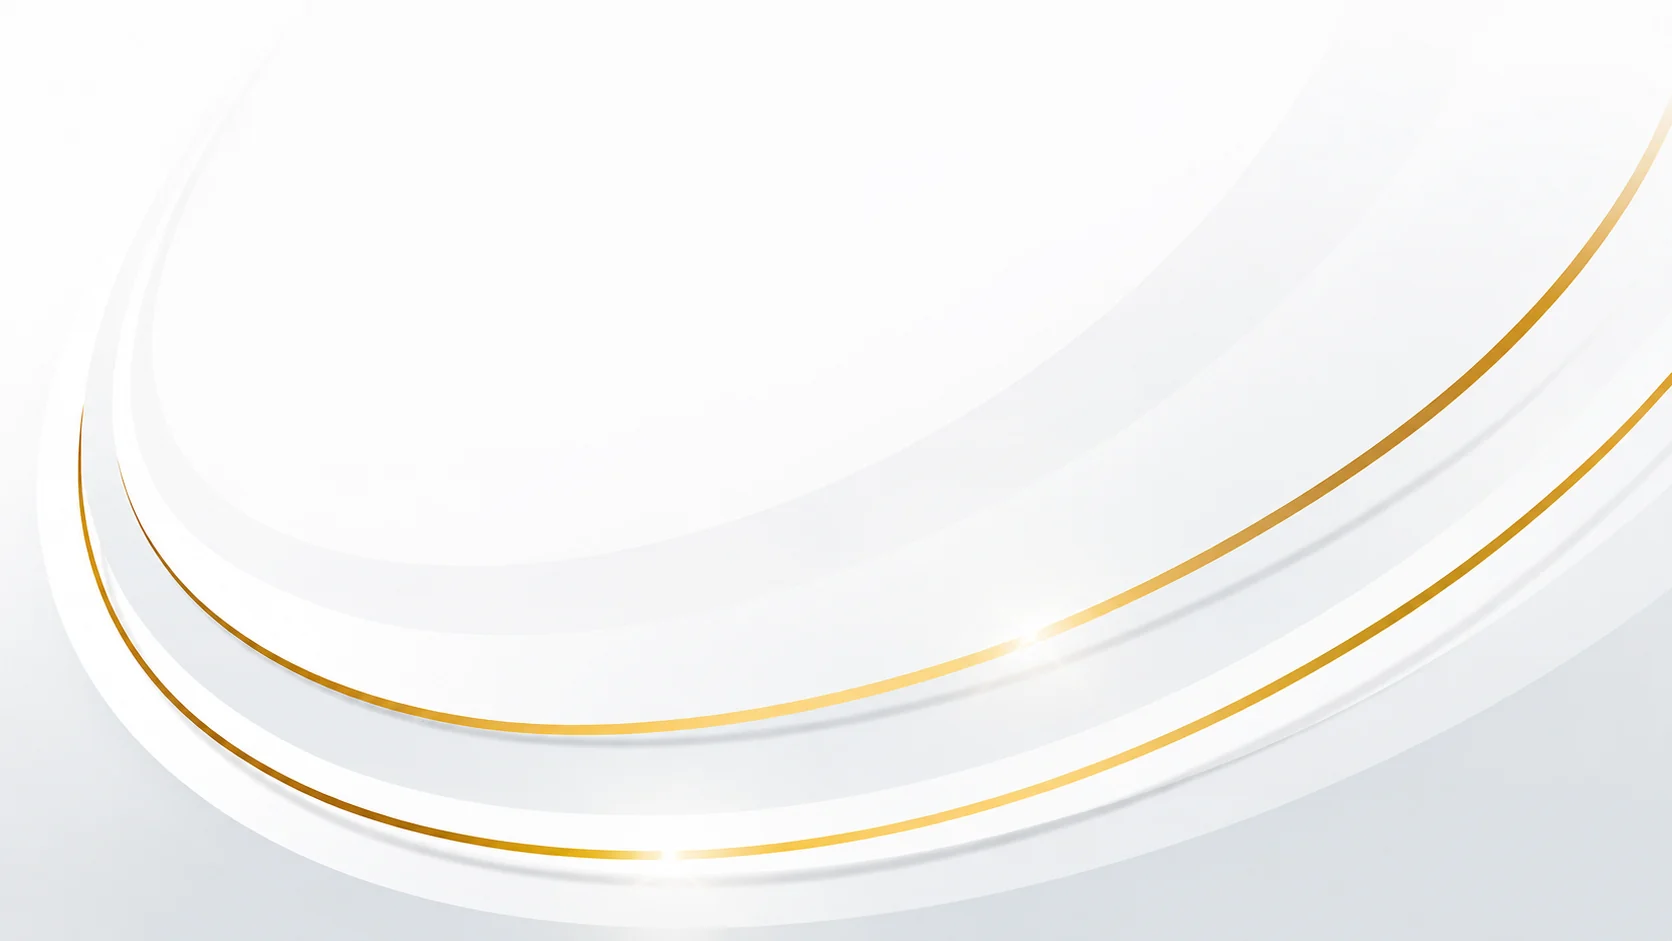
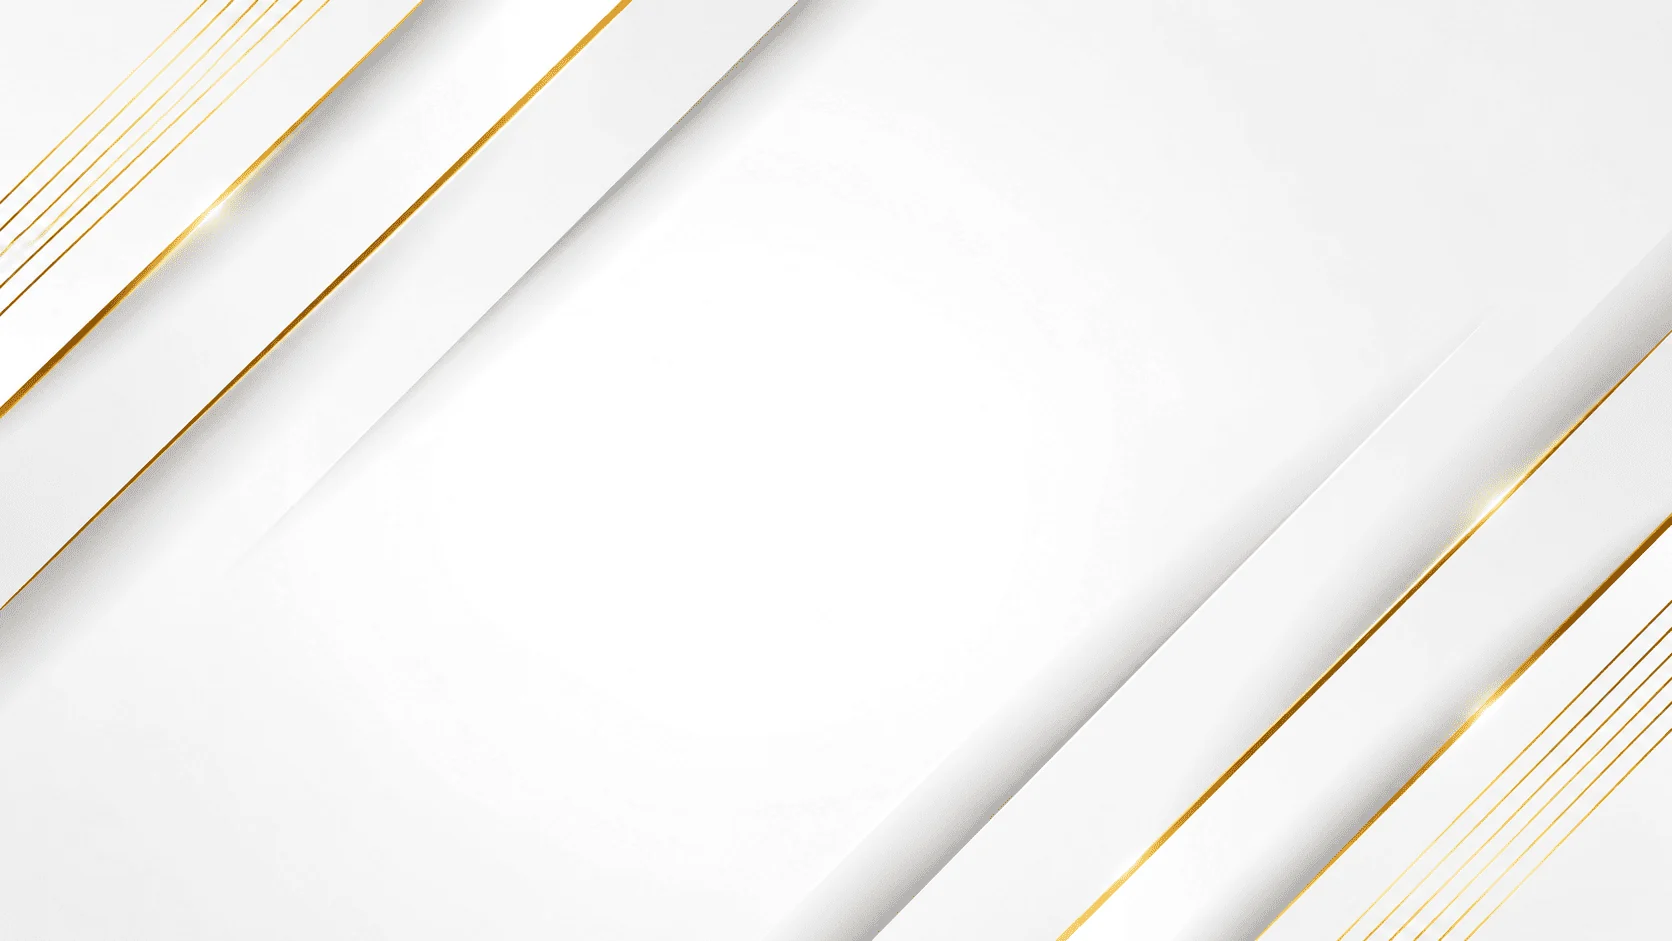
New Works page backdrops, and the studio email address

diff --git a/src/data.js b/src/data.js
@@ -613,7 +613,7 @@ export const ABOUT_TIMELINE = [
 /* ── Contact page ───────────────────────────────────────────────────── */
 export const CONTACT_METHODS = [
   { icon: Phone, label: 'Phone', value: '+91 6235-502-722', href: 'tel:+916235502722' },
-  { icon: Mail, label: 'Email', value: 'adqube01@gmail.com', href: 'mailto:adqube01@gmail.com' },
+  { icon: Mail, label: 'Email', value: 'adqubestudio@gmail.com', href: 'mailto:adqubestudio@gmail.com' },
   {
     icon: MapPin,
     label: 'Location',
